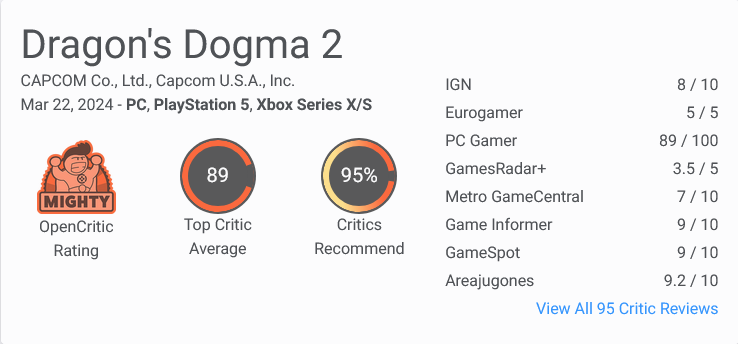
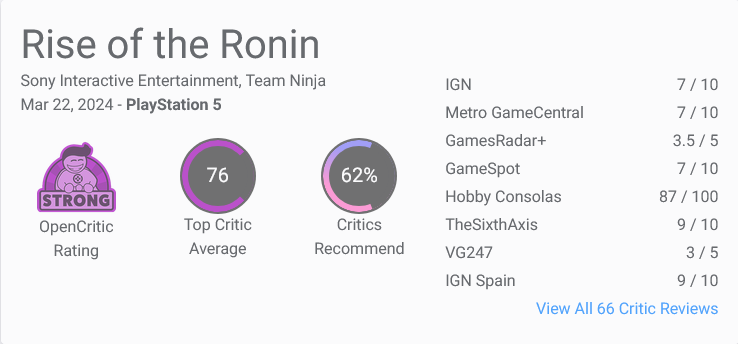
Submit screenshots working

diff --git a/Fantasy Critic/open_critic.py b/Fantasy Critic/open_critic.py
@@ -17,7 +17,7 @@ def open_critic(released_games):
     driver.get(OPEN_CRITIC)
     driver.set_window_size(1980, 1080)
     # Wait 2 seconds for page to load
-    driver.implicitly_wait(2)
+    driver.implicitly_wait(4)
 
     # Accept T&C
     driver.switch_to.frame("sp_message_iframe_1084011")
@@ -33,7 +33,7 @@ def open_critic(released_games):
     # Look at search dropdown and check if the game exists
     text = driver.find_element(By.ID, "ngb-typeahead-0-0")
     if text.text == released_games:
-        (WebDriverWait(driver, 2)
+        (WebDriverWait(driver, 4)
          .until(EC.element_to_be_clickable(
             (By.XPATH, "//button[@id='ngb-typeahead-0-0']"))).click())
     else:
@@ -44,8 +44,11 @@ def open_critic(released_games):
         By.CSS_SELECTOR,
         "div.mb-4:nth-child(3) > div:nth-child(1) > div:nth-child(1)")
      .screenshot("screenshot.png"))
+    driver.quit()
 
 
 if __name__ == "__main__":
-    released_games = "Dragon's Dogma 2"
-    open_critic(released_games)
+    released_games = ["Dragon's Dogma 2", "Princess Peach: Showtime!",
+                      "Rise of the Ronin"]
+    for game in released_games:
+        open_critic(game)

diff --git a/Fantasy Critic/fantasy_critic.py b/Fantasy Critic/fantasy_critic.py
@@ -1,9 +1,11 @@
 from bs4 import BeautifulSoup
 from selenium import webdriver
 from selenium.webdriver.firefox.options import Options
+from open_critic import open_critic
+from signal import signal
 import datetime as dt
 import time
-import open_critic
+
 
 # Fantasy Critic league
 FANTASY_CRITIC = "https://www.fantasycritic.games/league/"
@@ -90,15 +92,14 @@ def update_file(list_games_today):
         print(new_lines)
 
 
-
-
-
 def main():
     released = upcoming_releases(fantasy_critic_league())
     if released:
         update_file(released)
-
-# Check rating on day of release
+    # Check rating on day of release
+    for game in released:
+        open_critic(game)
+        signal()
 
 
 if __name__ == "__main__":
